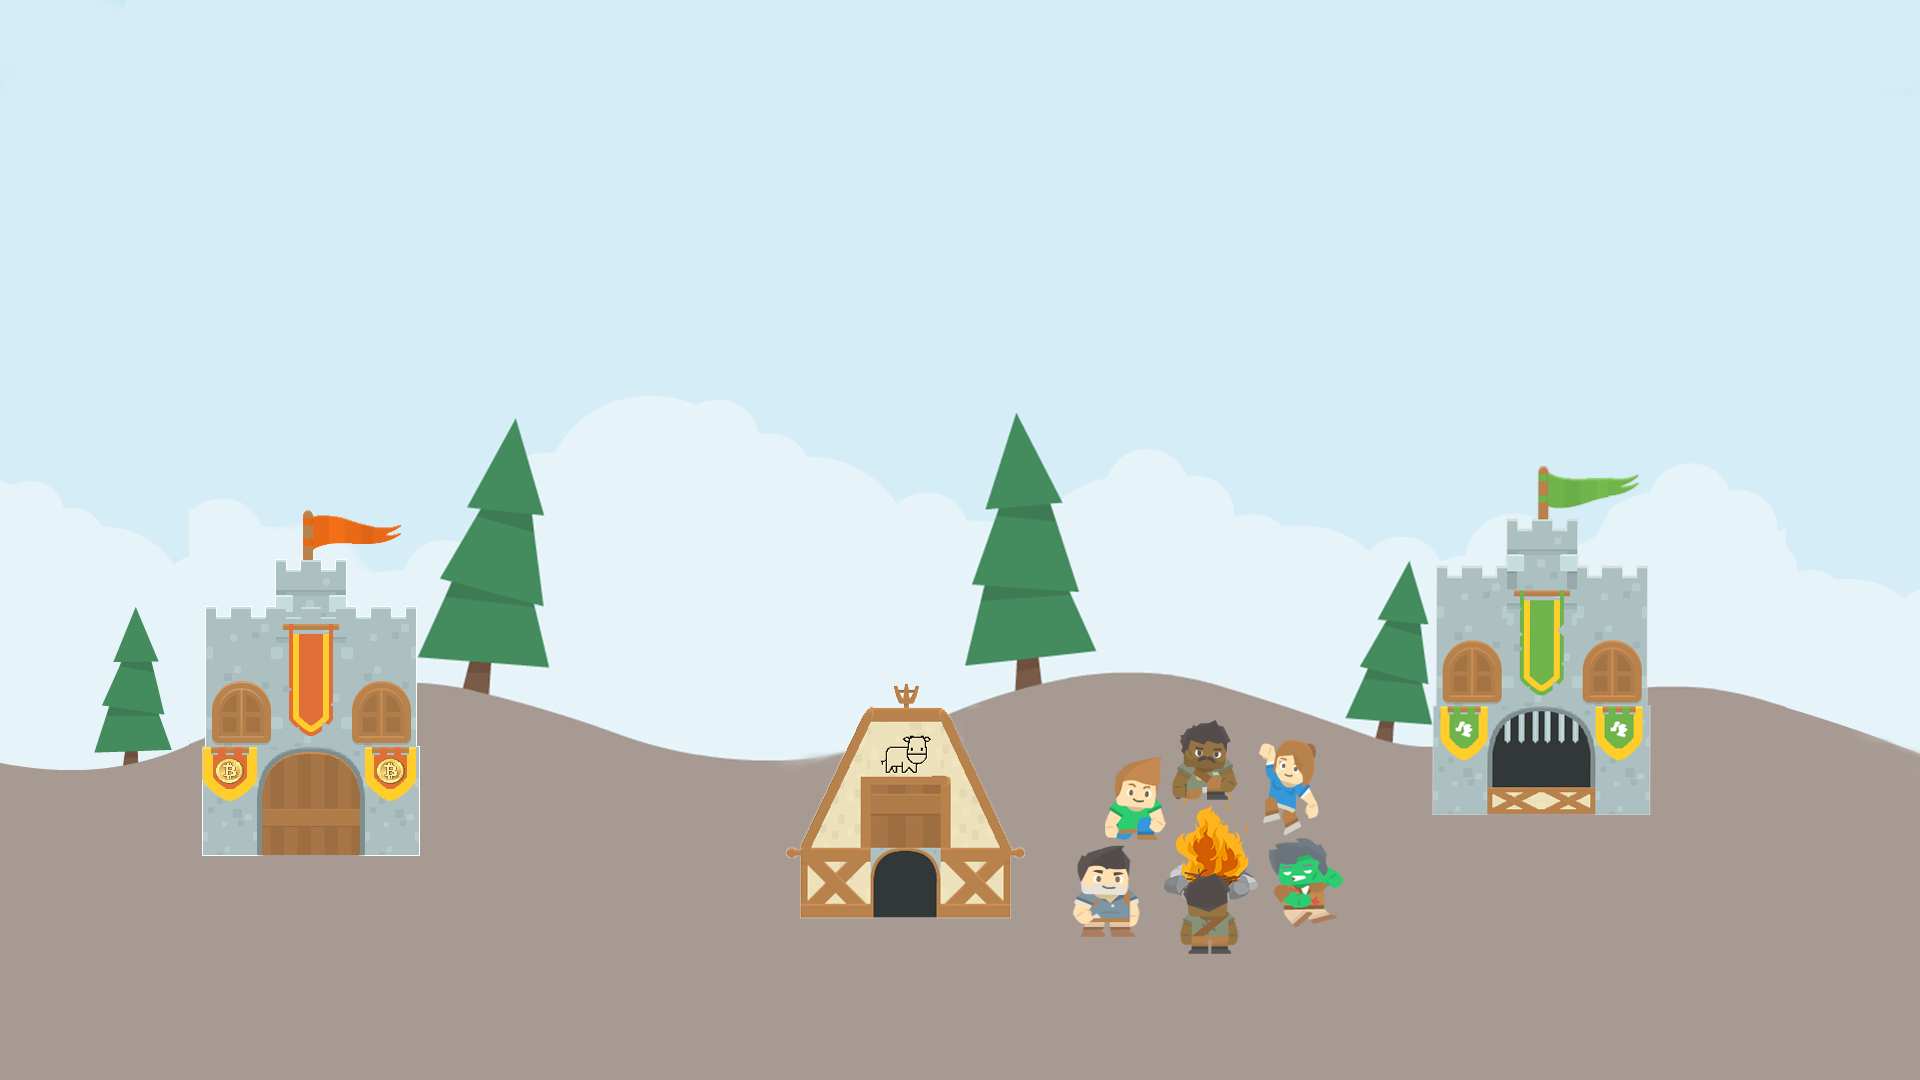
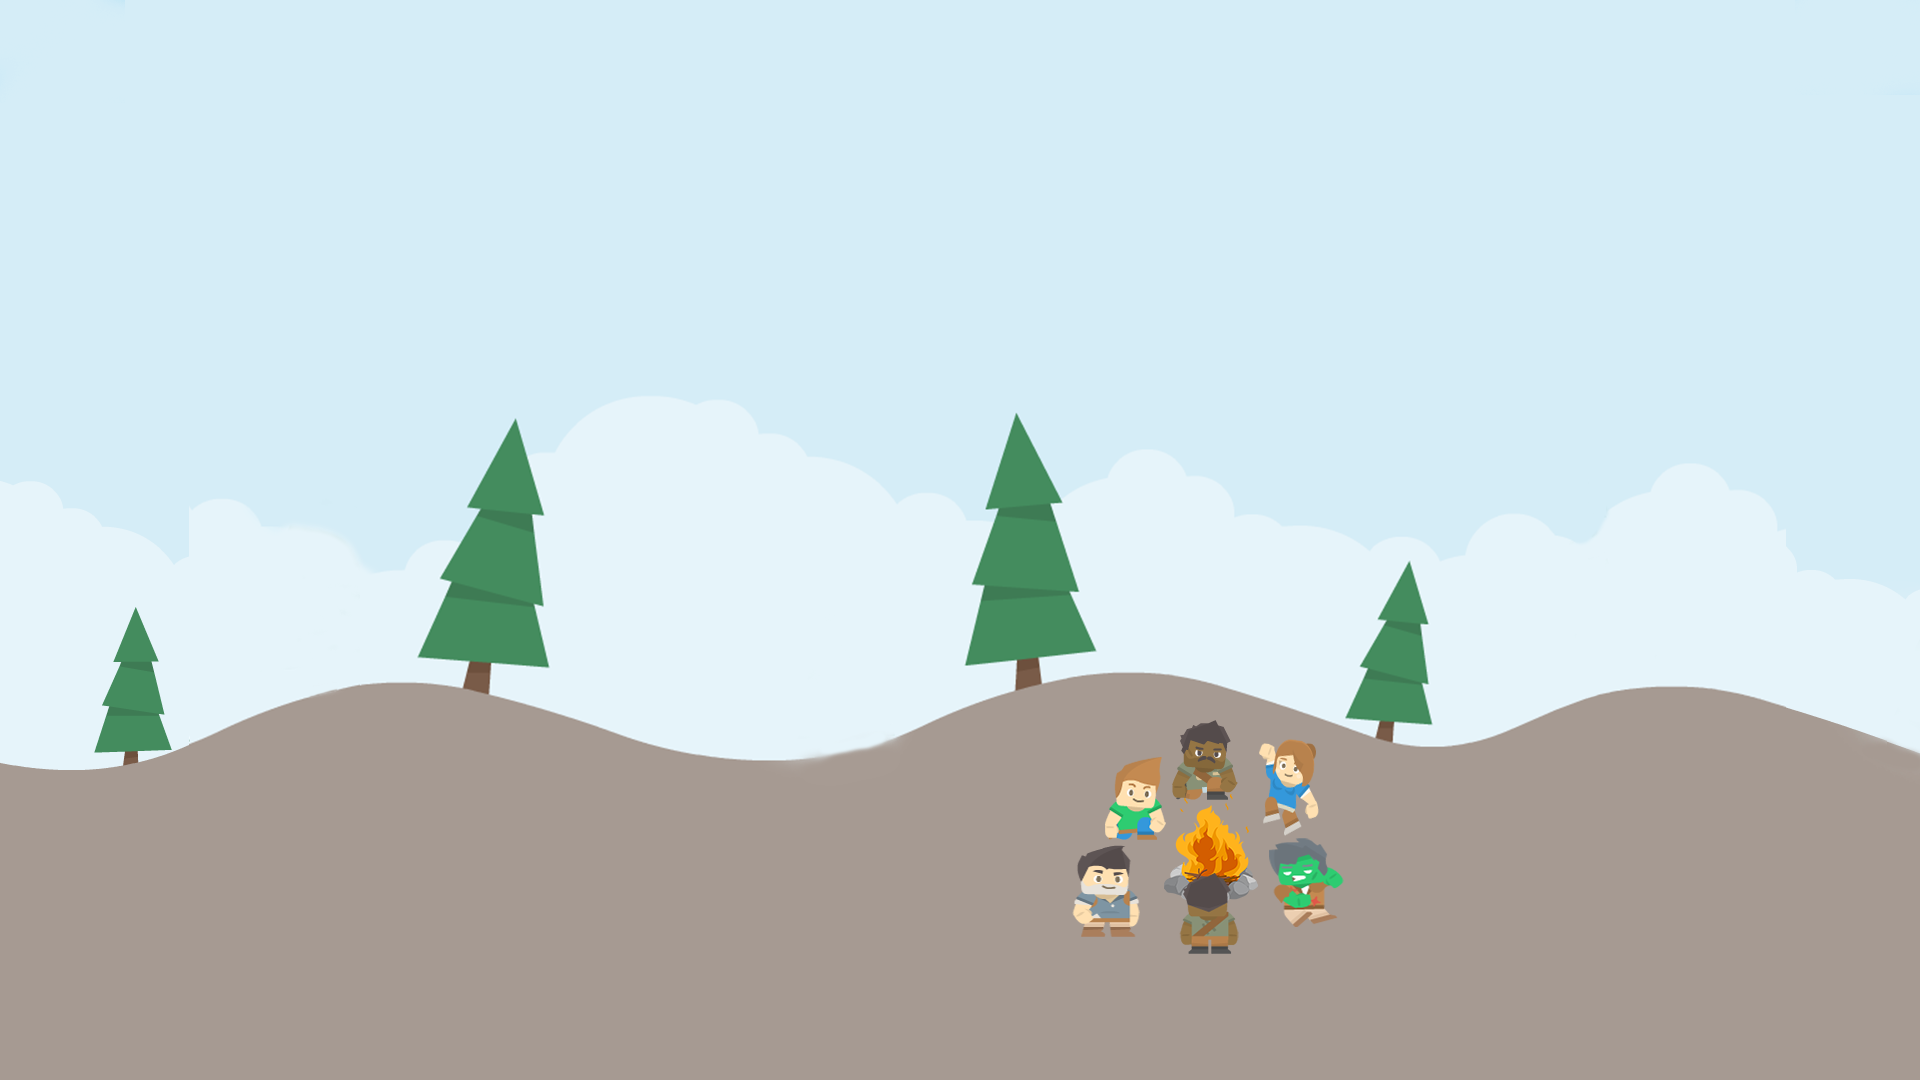
user page and village element positions fixed

Changed region(s): [[0.7188, 0.4278, 0.875, 0.7639], [0.0938, 0.4583, 0.2188, 0.7944], [0.4062, 0.6417, 0.5312, 0.8556]]

diff --git a/src/static/css/u.css b/src/static/css/u.css
@@ -1,18 +1,17 @@
 body{
   background-image: url("/static/img/towntemplate.png");
   background-repeat: no-repeat;
-  background-attachment: fixed;
+  /* background-attachment: fixed; */
   background-position: center;
   background-size: cover;
+
 }
 
 .total_source{
   background-color: #4d88ff;
   border: 2px solid #4d88ff;
   border-radius: 6px;
-  margin-top: 5%;
-  margin-left: 20%;
-  position: fixed;
+  /* position: fixed; */
 }
 
 .match_button{
@@ -21,25 +20,19 @@ body{
   font-size: 18px;
   border: 2px solid #dc0c4c;
   border-radius: 6px;
-  margin-top: 8%;
-  margin-left: 27%;
-  position: fixed;
+  /* position: fixed; */
 }
 
-.button_meat{
-  margin-left: 14%;
-  margin-top: 25%;
-  position: fixed;
+.flash_message {
+	/* fixed position a zero-height full width container */
+	/* position: fixed; */
+	/* center all inline content */
+	text-align: center;
 }
 
-.button_gold{
-  margin-top: 38%;
-  margin-left: -10%;
-  position: fixed;
-}
-
-.button_swordsman{
-  margin-left: 55%;
-  margin-top: 35.5%;
-  position: fixed;
+.flash_message > div {
+	/* make the block inline */
+	display: inline-block;
+	/* reset container's center alignment */
+	text-align: left;
 }
